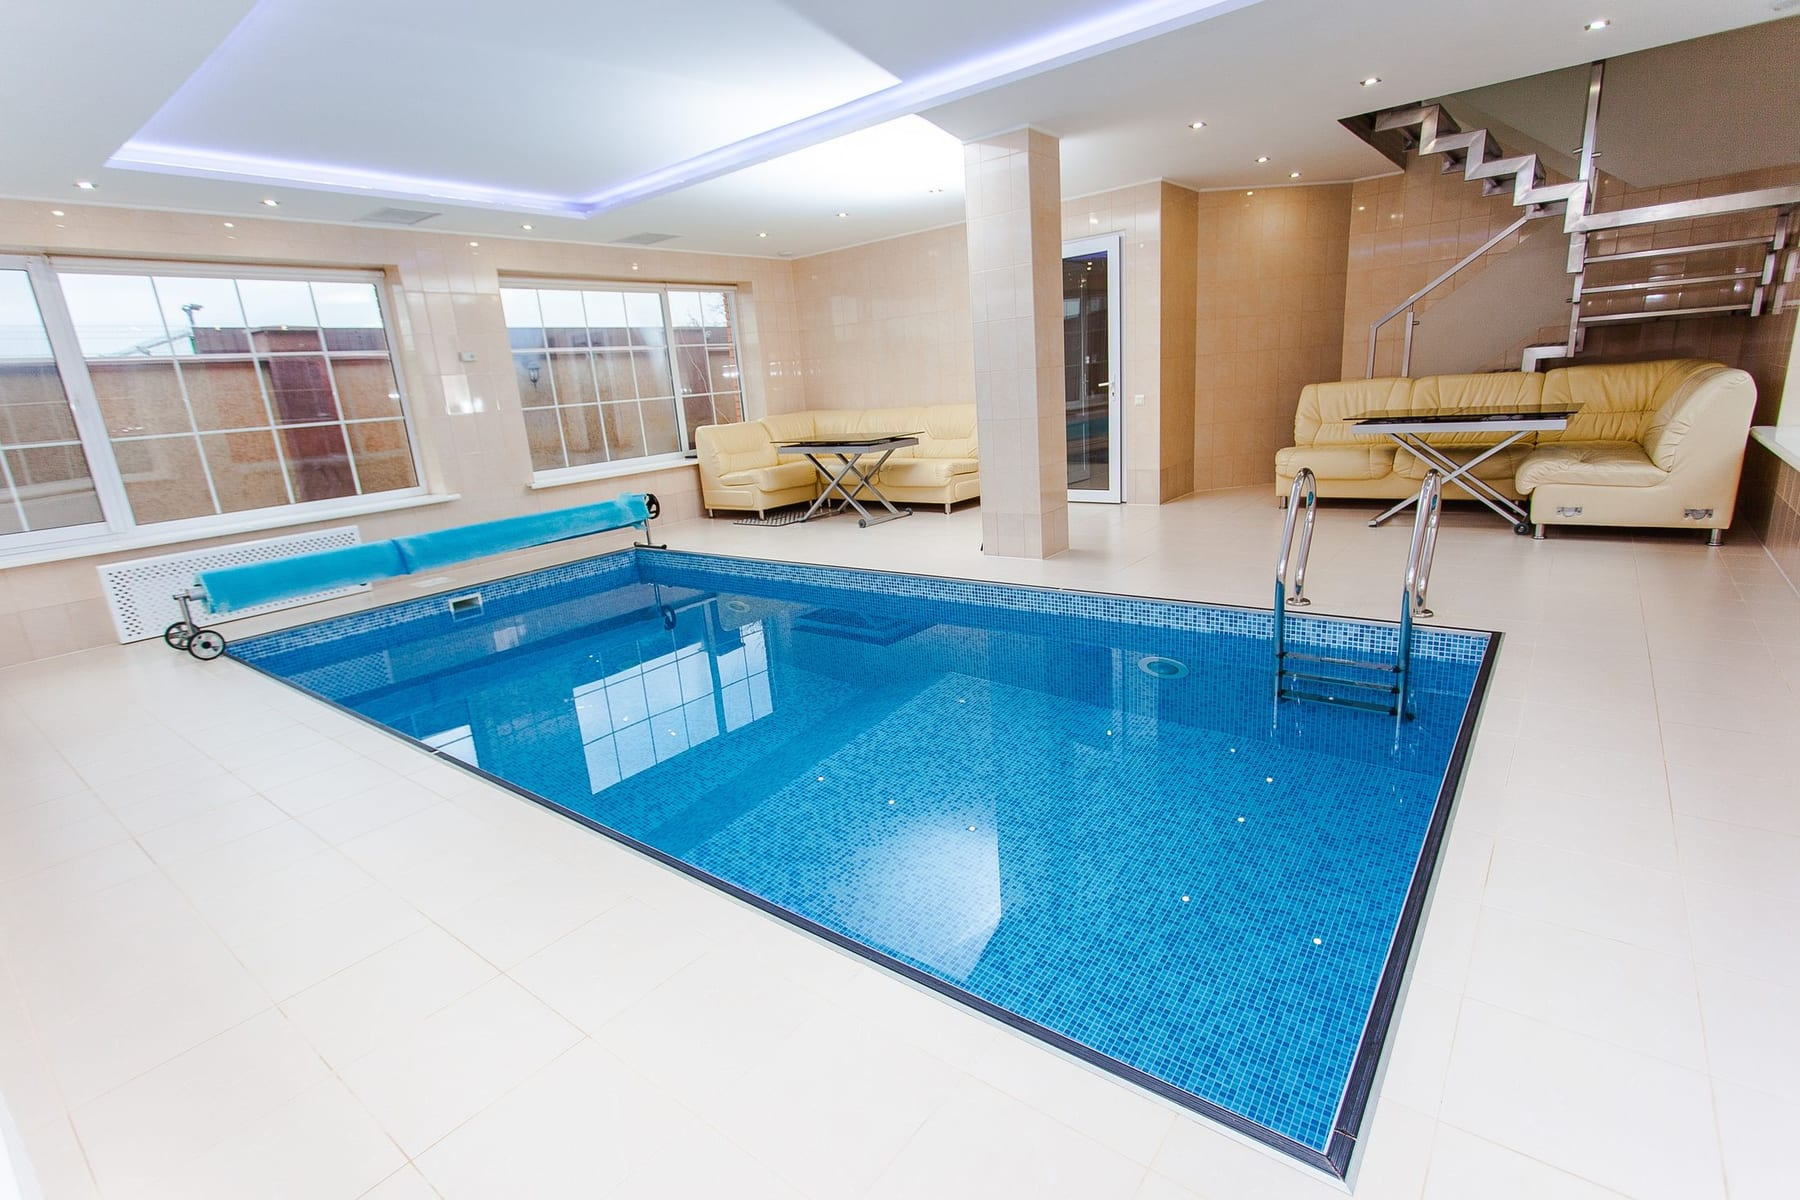
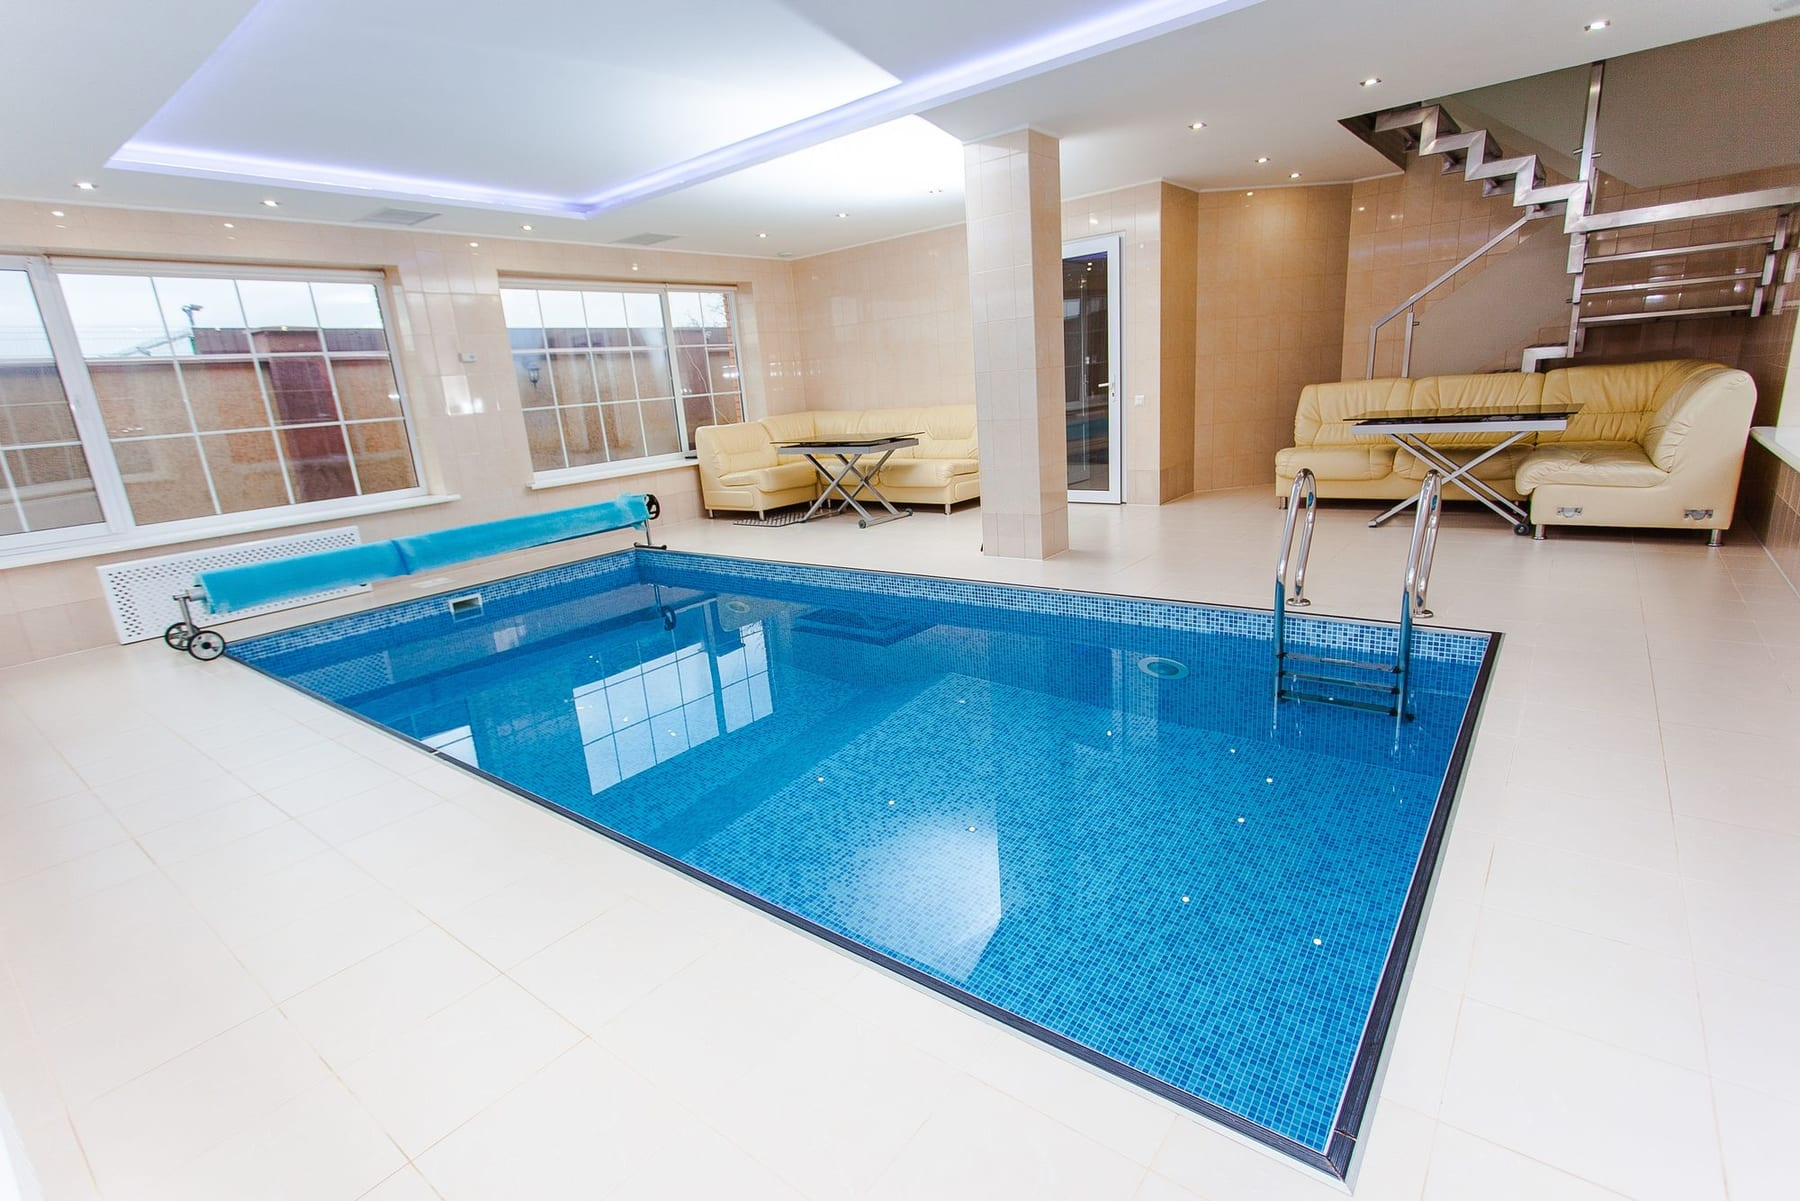
Use only clean, watermark-free residential pool photos
The rawpixel sources carried a visible watermark, so drop them. Rebuild the
image set around four clean, royalty-free residential pools (coastal home pool
and spa, courtyard plunge, indoor lap pool, garden overhead). Portfolio is now
four residential concepts; services, about, process, and home rewired to suit.

diff --git a/lib/projects.ts b/lib/projects.ts
@@ -18,26 +18,26 @@ export type Project = {
 // These are illustrative capability pieces, not specific client commissions.
 export const projects: Project[] = [
   {
-    slug: "still-water",
-    name: "Still Water",
-    category: "Modern backyard pool",
-    setting: "New build home",
+    slug: "ledge-and-light",
+    name: "Ledge and Light",
+    category: "Geometric pool and spa",
+    setting: "Coastal home",
     year: "Concept",
-    photo: "modern",
+    photo: "hero",
     summary:
-      "A calm pool set tight to a modern house, drawn so the water mirrors the architecture at dusk.",
+      "A crisp rectilinear pool with a raised spa, set into a wide stone deck at a coastal home.",
     intro:
-      "A pool for a modern new build, where the brief was a clean sheet of water that reflects the house rather than competing with it.",
-    scope: ["Rectilinear pool", "Flush deck edge", "Recessed lighting", "Reflective surface"],
+      "A clean geometric pool for a flat coastal lot, where the brief was simple lines and an easy path from the house to the water.",
+    scope: ["Rectangular pool", "Raised spa with spillover", "Stone surround deck", "Lounge terrace"],
     details: [
       { label: "Shape", value: "Rectilinear" },
-      { label: "Edge", value: "Flush with deck" },
-      { label: "Finish", value: "Dark interior" },
-      { label: "Mood", value: "Still, reflective" },
+      { label: "Finish", value: "Pale interior" },
+      { label: "Spa", value: "Raised, flush spillover" },
+      { label: "Deck", value: "Honed stone" },
     ],
     story: [
-      "The house has long, low lines, so the pool keeps to a simple rectangle that runs parallel to it. A flush deck edge means the water sits right at the surface of the patio, with nothing to interrupt the reflection.",
-      "A darker interior finish keeps the surface calm and mirror like in the evening, when low recessed lighting picks out the deck and the water holds the last of the sky.",
+      "The site sits low and open to the shoreline, so the design keeps everything level and lets the long axis of the pool point toward the view. A raised spa anchors one end and spills back into the pool in a thin sheet.",
+      "A broad stone deck wraps the water on three sides, wide enough for loungers without crowding the edge. The interior finish reads turquoise in full sun and a deeper teal as the light drops.",
     ],
   },
   {
@@ -87,49 +87,26 @@ export const projects: Project[] = [
     ],
   },
   {
-    slug: "evening-light",
-    name: "Evening Light",
+    slug: "garden-overhead",
+    name: "Garden Overhead",
     category: "Backyard pool",
-    setting: "Family home",
+    setting: "Planted garden",
     year: "Concept",
-    photo: "evening",
+    photo: "garden",
     summary:
-      "A classic backyard pool lit for the evening, with the house and water reading as one warm scene.",
+      "A backyard pool planned from above, set into a garden of paths, beds, and quiet corners.",
     intro:
-      "A family backyard pool designed around the evening, when the lit house and the pool should feel like a single, settled picture.",
-    scope: ["Backyard pool", "Lawn surround", "Facade and pool lighting", "Soft planting"],
+      "A pool drawn as part of a whole garden plan, where the paths, planting, and pool were laid out together so the yard reads as one design.",
+    scope: ["Backyard pool", "Garden plan", "Paved paths", "Layered planting"],
     details: [
-      { label: "Setting", value: "Lawn and patio" },
-      { label: "Lighting", value: "Warm, layered" },
-      { label: "Edge", value: "Stone coping" },
-      { label: "Feel", value: "Classic, settled" },
+      { label: "Approach", value: "Planned in plan" },
+      { label: "Surround", value: "Stone paths" },
+      { label: "Planting", value: "Layered beds" },
+      { label: "Feel", value: "Private garden" },
     ],
     story: [
-      "The pool sits in the lawn close to the house, with a stone coping that matches the home. The shape is kept classic so it will not date, and the planting is soft and low around the edges.",
-      "Lighting is the quiet move here. The facade and the pool are lit together at a low level, so by evening the house and the water read as one warm scene from the patio.",
-    ],
-  },
-  {
-    slug: "stone-terrace",
-    name: "Stone Terrace",
-    category: "Pool and terrace",
-    setting: "Hillside home",
-    year: "Concept",
-    photo: "stone",
-    summary:
-      "A pool set into a stone terrace below the house, drawn to belong to the masonry and the slope.",
-    intro:
-      "A pool and terrace for a stone home on a slope, where the water needed to sit naturally within the existing masonry and grade.",
-    scope: ["Terraced pool", "Natural stone surround", "Retaining and steps", "Framed planting"],
-    details: [
-      { label: "Setting", value: "Terraced slope" },
-      { label: "Surround", value: "Natural stone" },
-      { label: "Access", value: "Stone steps" },
-      { label: "Style", value: "Warm, classic" },
-    ],
-    story: [
-      "The home is built in stone and steps down the slope, so the pool is set into a terrace held by the same masonry. From the house it reads as part of the building rather than an addition in the yard.",
-      "Stone steps carry you down to the water, and planting is kept to framed beds so the terrace stays open and the stone does the talking.",
+      "Seen from above, the design is really a garden plan with a pool at its center. The paths, beds, and lawn are set out around the water so every route through the yard leads back to it.",
+      "Keeping the pool tight to a paved island leaves room for deep planting on all sides, so from the ground the water sits inside a green, private garden.",
     ],
   },
 ];

diff --git a/lib/photos.ts b/lib/photos.ts
@@ -1,5 +1,5 @@
 // Auto-generated photo manifest (scripts/optimize-photos.mjs).
-// Royalty-free residential pool imagery: Pexels, Openverse (CC0), rawpixel (CC0). See public/photos/CREDITS.md.
+// Royalty-free residential pool imagery: Pexels and Openverse (CC0). See public/photos/CREDITS.md.
 export type PhotoMeta = { src: string; width: number; height: number; blurDataURL: string };
 export const photos = {
   "hero": {
@@ -7,12 +7,6 @@ export const photos = {
     "width": 2400,
     "height": 1600,
[1 lines of base64/hex data omitted]
-  },
-  "modern": {
-    "src": "/photos/modern.jpg",
-    "width": 1300,
-    "height": 731,
[1 lines of base64/hex data omitted]
   },
   "courtyard": {
     "src": "/photos/courtyard.jpg",
@@ -23,20 +17,8 @@ export const photos = {
   "indoor": {
     "src": "/photos/indoor.jpg",
     "width": 1800,
-    "height": 1200,
[1 lines of base64/hex data omitted]
-  },
-  "evening": {
-    "src": "/photos/evening.jpg",
-    "width": 1300,
-    "height": 870,
[1 lines of base64/hex data omitted]
-  },
-  "stone": {
-    "src": "/photos/stone.jpg",
-    "width": 1300,
-    "height": 975,
[1 lines of base64/hex data omitted]
+    "height": 1201,
[1 lines of base64/hex data omitted]
   },
   "garden": {
     "src": "/photos/garden.jpg",

diff --git a/app/about/page.tsx b/app/about/page.tsx
@@ -39,7 +39,7 @@ export default function AboutPage() {
         eyebrow="About"
         title="A studio that thinks in water."
         intro="Azure Pools & Spas is a small, design-led team. We take on a measured number of projects so each one gets the attention a custom pool deserves."
-        photo="stone"
+        photo="courtyard"
       />
 
       {/* Narrative */}
@@ -78,12 +78,12 @@ export default function AboutPage() {
 
           <Reveal delay={120} className="relative aspect-[3/4] overflow-hidden rounded-2xl shadow-water">
             <Image
-              src={photos.stone.src}
-              alt="A stone home with a custom pool in the foreground"
+              src={photos.hero.src}
+              alt="A geometric backyard pool and spa at a coastal home"
               fill
               sizes="(min-width: 768px) 40vw, 100vw"
               placeholder="blur"
-              blurDataURL={photos.stone.blurDataURL}
+              blurDataURL={photos.hero.blurDataURL}
               className="object-cover"
             />
           </Reveal>

diff --git a/app/process/page.tsx b/app/process/page.tsx
@@ -56,12 +56,12 @@ export default function ProcessPage() {
           </Reveal>
           <Reveal delay={120} className="relative aspect-[4/5] overflow-hidden rounded-2xl shadow-water">
             <Image
-              src={photos.evening.src}
-              alt="A backyard pool lit warmly at dusk beside the house"
+              src={photos.courtyard.src}
+              alt="A compact residential plunge pool and patio"
               fill
               sizes="(min-width: 768px) 45vw, 100vw"
               placeholder="blur"
-              blurDataURL={photos.evening.blurDataURL}
+              blurDataURL={photos.courtyard.blurDataURL}
               className="object-cover"
             />
           </Reveal>

diff --git a/lib/content.ts b/lib/content.ts
@@ -15,7 +15,7 @@ export const services: Service[] = [
     blurb:
       "Pools drawn for one site and one family. Geometric or free-form, edge to edge, finished the way you want to feel the water.",
     points: ["Geometric and free-form", "Vanishing and slot edges", "Sun shelves and benches", "Custom interior finishes"],
-    photo: "modern",
+    photo: "hero",
   },
   {
     slug: "spas",
@@ -31,7 +31,7 @@ export const services: Service[] = [
     blurb:
       "The sound of moving water, placed with intent. Sheer descents, scuppers, and stone runs that carry the garden into the pool.",
     points: ["Sheer descent walls", "Scuppers and spouts", "Natural stone runs", "Tuned for sound"],
-    photo: "evening",
+    photo: "indoor",
   },
   {
     slug: "renovations",
@@ -39,7 +39,7 @@ export const services: Service[] = [
     blurb:
       "A tired pool, brought back. New surfaces, new lines, and the quiet systems that make an older pool feel new again.",
     points: ["Resurfacing", "Coping and tile", "Equipment upgrades", "Layout reworks"],
-    photo: "stone",
+    photo: "courtyard",
   },
   {
     slug: "outdoor-living",

diff --git a/public/photos/CREDITS.md b/public/photos/CREDITS.md
@@ -1,19 +1,17 @@
 # Photography credits
 
-All imagery is royalty-free and cleared for commercial use. The set focuses on
-residential pools. Images were downsized and recompressed for the web (see
+All imagery is royalty-free, cleared for commercial use, and shows residential
+pools. Images were downsized and recompressed for the web (see
 `scripts/optimize-photos.mjs`).
 
 | File | Subject | Source | License |
 |------|---------|--------|---------|
 | hero.jpg | Geometric backyard pool and spa at a coastal home | Pexels (photo 261327) | Pexels License |
-| modern.jpg | Modern home with a reflecting pool at dusk | Openverse / rawpixel | CC0 |
 | courtyard.jpg | Compact residential plunge pool and patio | Pexels (photo 261410) | Pexels License |
 | indoor.jpg | Indoor residential lap pool | Pexels (photo 261045) | Pexels License |
-| evening.jpg | Family home with a lit backyard pool at dusk | Openverse / rawpixel | CC0 |
-| stone.jpg | Stone home with a pool terrace | Openverse / rawpixel | CC0 |
-| garden.jpg | Landscaped backyard pool from above | Openverse / WordPress Photo Directory | CC0 |
+| garden.jpg | Landscaped backyard pool seen from above | Openverse / WordPress Photo Directory | CC0 |
 
-The Pexels License and CC0 require no attribution. To replace an image, drop a
-new source into `public/photos/_cand2`, update the map in
+The Pexels License and CC0 require no attribution. To add or replace an image,
+drop a source into `public/photos/_cand2`, update the map in
 `scripts/optimize-photos.mjs`, and rerun `node scripts/optimize-photos.mjs`.
+Real project photos can be dropped straight in to grow the portfolio.